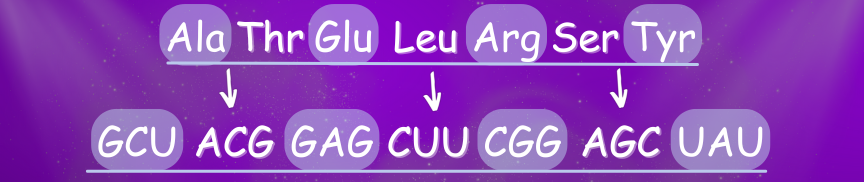
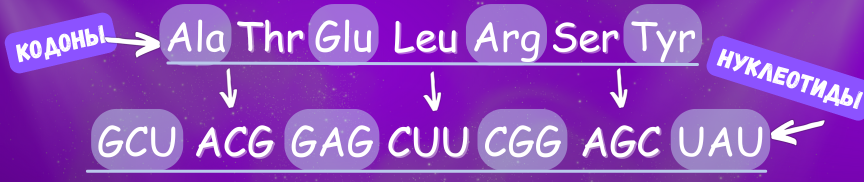
wip

Changed region(s): [[0.8125, 0.1923, 1.0, 0.6593], [0.0, 0.0549, 0.1875, 0.4121], [0.875, 0.6593, 0.9688, 0.7967]]

diff --git a/funnel2.ru.md b/funnel2.ru.md
@@ -35,7 +35,7 @@ show_header: false
 ![Alt text](/assets/images/funnel2_1_1.png){: .img}
 <!-- ![Alt text](/assets/images/nuces_only.png){: .img} -->
 
-Кодон **Ala (Аланин)** кодируется как **GCU**
+Кодон **Ala (Аланин)** - это Гуанин + Цитозин + Урацил, что кодируется как **GCU**
 
 Так что фрагмент генетического кода может выглядеть так:
 
@@ -47,7 +47,9 @@ show_header: false
 ![Alt text](/assets/images/funnel2_1_3.png){: .img}
 <!-- ![Alt text](/assets/images/nuces.png){: .img} -->
 
-Тогда **Аланин**(GCU) можно записать как **011000** 
+Тогда  **Ala (Аланин)** = Гуанин + Цитозин + Урацил = G + C + U = 01 + 11 + 00.
+
+Или **Ala = 011000** 
 
 Аналогично можно записать любой кодон: 
 
